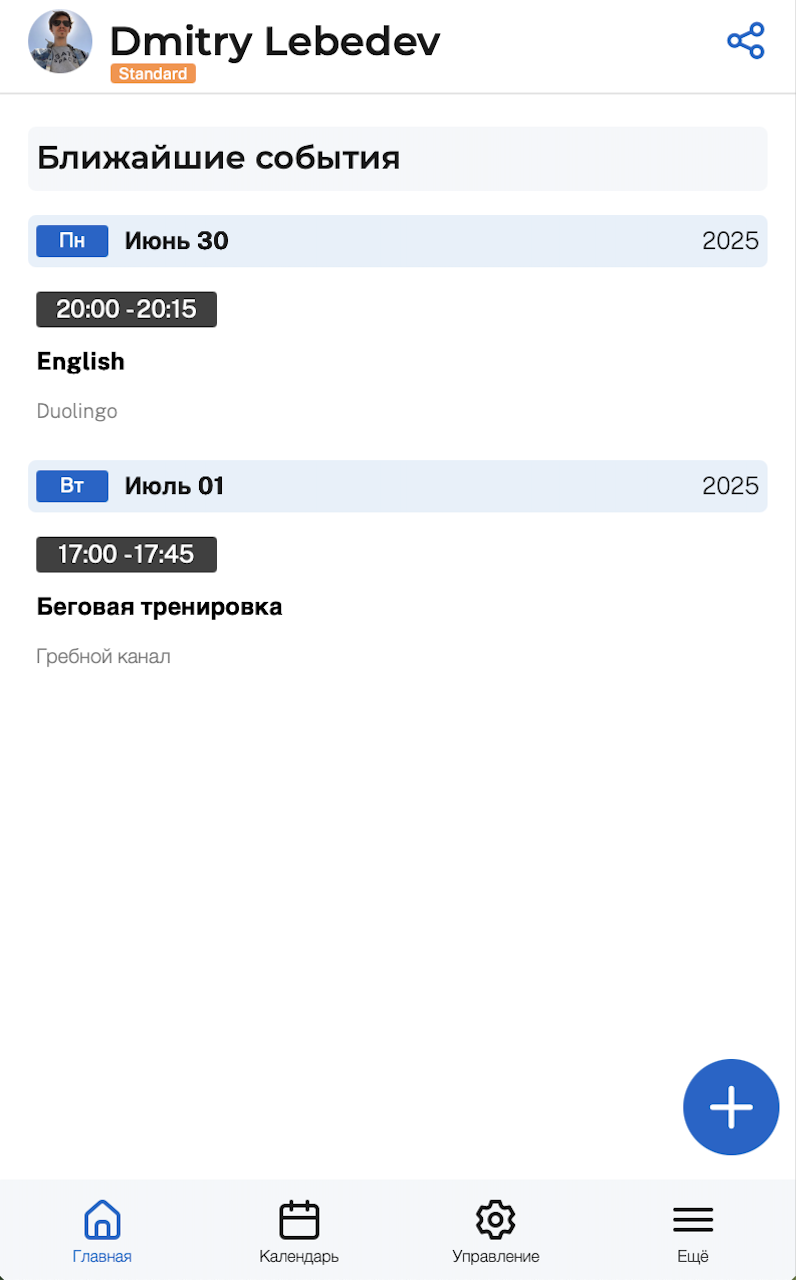
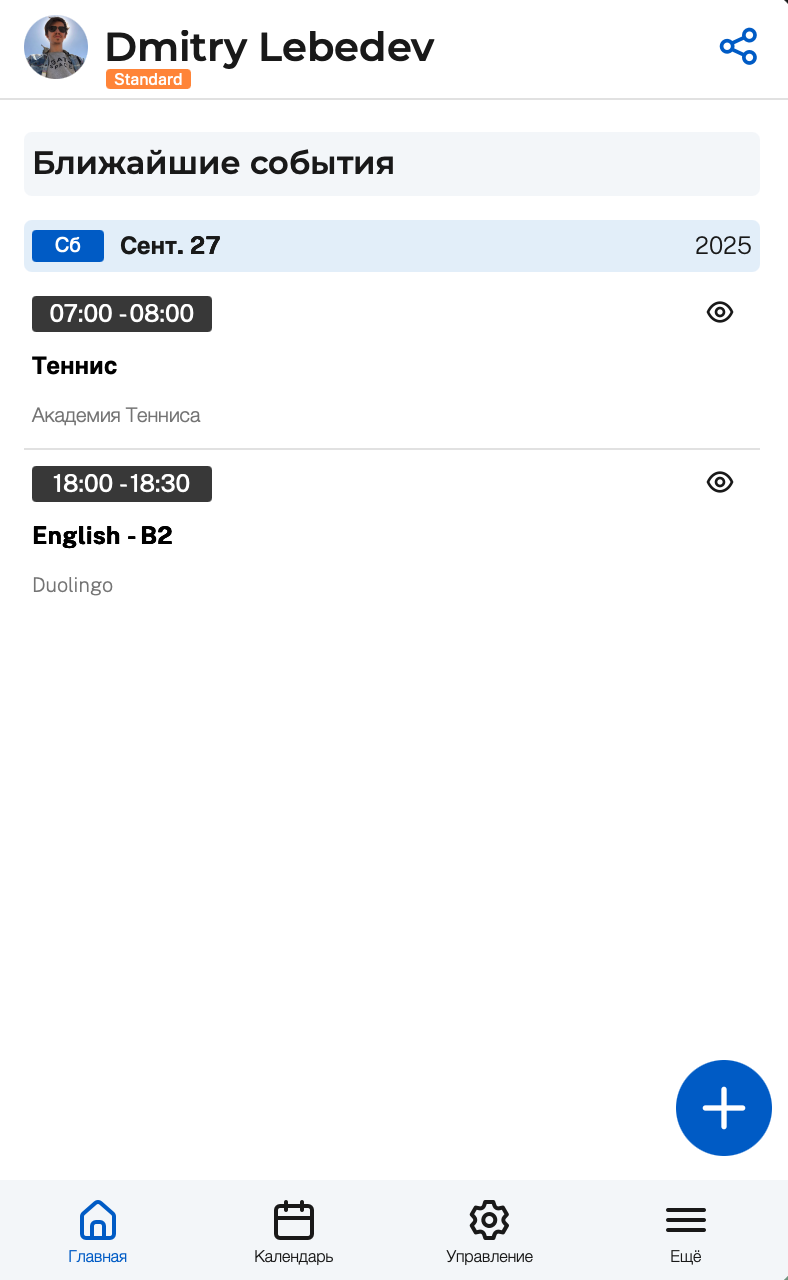
GITBOOK-25: No subject

diff --git a/SUMMARY.md b/SUMMARY.md
@@ -9,13 +9,12 @@
   * [Главная](menu/features/main.md)
   * [Календарь](menu/features/calendar.md)
   * [Управление](menu/features/management/README.md)
-    * [Добавить слоты](menu/features/management/add-slots.md)
-    * [Управление слотами](menu/features/management/manage-slots/README.md)
-      * [Просмотр слота](menu/features/management/manage-slots/view-slot.md)
-      * [Редактирование слота](menu/features/management/manage-slots/edit-slot.md)
+    * [Добавить событие](menu/features/management/add-event.md)
+    * [Управление событиями](menu/features/management/manage-events/README.md)
+      * [Просмотр слота](menu/features/management/manage-events/view-slot.md)
+      * [Редактирование события](menu/features/management/manage-events/edit-event.md)
   * [Еще](menu/features/more/README.md)
     * [Подписка](menu/features/more/subscription.md)
     * [Поделиться](menu/features/more/share.md)
     * [Настройки](menu/features/more/settings.md)
-* [Уведомления и бот](menu/notifications.md)
 * [Тарифные планы](menu/plans.md)

diff --git a/menu/features/main.md b/menu/features/main.md
@@ -8,9 +8,9 @@ icon: house-chimney-user
 
 # Главная
 
+<figure><img src="../../.gitbook/assets/main.png" alt="" width="375"><figcaption></figcaption></figure>
 
 
-<figure><img src="../../.gitbook/assets/main.png" alt="" width="375"><figcaption><p>Главная страница</p></figcaption></figure>
 
 Главная страница открывается при запуске приложения. Она предназначена для быстрого обзора актуальной информации и выполнения основных действий.
 
@@ -36,6 +36,10 @@ icon: house-chimney-user
 * Дата и день недели;
 * Время события;
 * Название и описание (если есть).
+* Иконка глаза. При нажатии на эту кнопку:
+
+1. Если вы автор - откроется форма редактирования события;
+2. Если вы участник - откроется страница с информацией о событии и возможностью его отменить.
 
 События отсортированы по дате — сверху самое ближайшее.
 
